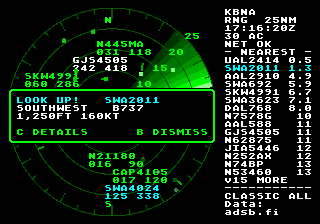
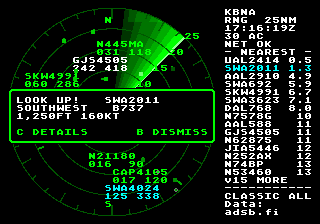
Boot: still bubble text and time to read each call
The letter wave was too much movement on the cart, so the bubble text
stands still. Every call now stays up 1.5 s after its last letter
before the boot moves on (and before setup opens on HOLD POSITION, via
the new splash_wait), so the boot runs a few seconds longer by choice.
Manual shots retimed for the longer emulator boot.

diff --git a/src/splash.c b/src/splash.c
@@ -1,7 +1,7 @@
 /* Boot splash (lode/ui/boot-splash.md). Window (rows 0-7): the wordmark and the status line.
  * Plane B: the scene, with the speech bubble's body written over it. Plane A: only the bubble
- * text, its 2-cell columns scrolled up and down in a wave. Sprites (low priority): the 787, so
- * it climbs out *behind* the wordmark. Everything moves in the V-Int; main only requests phases. */
+ * text. Sprites (low priority): the 787, so it climbs out *behind* the wordmark. Everything
+ * moves in the V-Int; main only requests phases. */
 #include "splash.h"
 #include "airports.h"
 #include "resources.h"
@@ -26,7 +26,7 @@
 #define HOLD_X      (103 << 8)  /* nose just short of the hold bars at x = 200 */
 #define GROUND_Y    (161 << 8)  /* wheels on the runway centre line */
 #define DWELL       90          /* frames a call stays up before the next phase */
-#define LINGER      40          /* ...and at least this long after its last letter */
+#define LINGER      90          /* ...and at least this long after its last letter, to read it */
 #define TYPE_RATE   1           /* frames per typed character */
 
 enum { PAL_CALL = PAL1, PAL_RED = PAL2, PAL_BUB = PAL3, PAL_DIM = PAL3 };
@@ -51,8 +51,6 @@ static u16 clr_x, clr_y, clr_w, clr_h;          /* body + tail: what to give bac
 static char status[STATUS_W + 1];
 static volatile u16 status_dirty;
 
-/* letter wave: px of vertical scroll per 2-cell column, a travelling sine */
-static const s16 wave[16] = { 0, 1, 1, 2, 2, 2, 1, 1, 0, -1, -1, -2, -2, -2, -1, -1 };
 
 static s32 px, py, vx, vy;              /* 8.8 */
 static u16 frame_no;
@@ -267,8 +265,8 @@ static void move(void)
     case SP_READBACK:                           /* taxi on to the hold line and wait there */
         vx = px < HOLD_X ? 128 : 0;
         if (px > HOLD_X) px = HOLD_X;
-        if (phase == SP_TAKEOFF && call_done(0, 50)) switch_phase(SP_READBACK, NULL);
-        else if (phase == SP_READBACK && call_done(0, 45) && px >= HOLD_X) switch_phase(SP_ROLL, NULL);
+        if (phase == SP_TAKEOFF && call_done(0, LINGER)) switch_phase(SP_READBACK, NULL);
+        else if (phase == SP_READBACK && call_done(0, LINGER) && px >= HOLD_X) switch_phase(SP_ROLL, NULL);
         break;
     default:                                    /* takeoff roll and climb */
         if (px < (150 << 8)) {
@@ -285,7 +283,7 @@ static void move(void)
     s16 x = px >> 8;
     frame_no = x < 135 || phase < SP_ROLL ? 0 : x < 150 ? 1 : x < 170 ? 2 : 3;
     if (phase == SP_ROLL && (py >> 8) < 40) switch_phase(SP_CONTACT, NULL);
-    if (phase == SP_CONTACT && (x >= 330 || (py >> 8) < -48) && typed >= typed_end) phase = SP_GONE;
+    if (phase == SP_CONTACT && (x >= 330 || (py >> 8) < -48) && call_done(0, LINGER)) phase = SP_GONE;
 }
 
 static void build_sprites(void)
@@ -342,13 +340,6 @@ static void splash_vint(void)
     PAL_setColors(0, pal_now, 64, CPU);
     VDP_setAutoInc(2);
 
-    /* letter wave: plane A's 2-cell columns bob; plane B stays put */
-    *(vu32 *)VDP_CTRL_PORT = VDP_WRITE_VSRAM_ADDR(0);
-    for (u16 c = 0; c < 20; c++) {
-        *(vu16 *)VDP_DATA_PORT = wave[(c * 3 + (ticks >> 2)) & 15];
-        *(vu16 *)VDP_DATA_PORT = 0;
-    }
-
     /* typewriter: redraw the bubble text from (lines, typed), so it's pure state */
     if (typed < typed_end && !(phase_frames % TYPE_RATE)) {
         u16 n = typed / BUB_TW;
@@ -396,7 +387,6 @@ void splash_start(enum splash_phase at)
     VDP_setPlaneSize(64, 32, TRUE);
     VDP_setWindowHPos(FALSE, 0);
     VDP_setWindowVPos(FALSE, WIN_ROWS);
-    VDP_setScrollingMode(HSCROLL_PLANE, VSCROLL_COLUMN);
     VDP_setHorizontalScroll(BG_A, 0);
     VDP_setHorizontalScroll(BG_B, 0);
     VDP_setVerticalScroll(BG_A, 0);
@@ -436,9 +426,14 @@ void splash_start(enum splash_phase at)
     SYS_setVIntCallback(splash_vint);
 }
 
-void splash_phase(enum splash_phase p, const char *detail)
+void splash_wait(void)
 {
     while (!skip && !call_done(DWELL, LINGER)) {}
+}
+
+void splash_phase(enum splash_phase p, const char *detail)
+{
+    splash_wait();
     update_city();
     set_phase(p, detail);
 }
@@ -471,9 +466,6 @@ void splash_stop(void)
     VDP_clearPlane(BG_B, TRUE);
     VDP_clearPlane(WINDOW, TRUE);
     VDP_setWindowVPos(FALSE, 0);
-    VDP_setScrollingMode(HSCROLL_PLANE, VSCROLL_PLANE);  /* nothing else sets it back; the radar would wobble */
-    VDP_setVerticalScroll(BG_A, 0);
-    VDP_setVerticalScroll(BG_B, 0);
     VDP_resetSprites();
     VDP_updateSprites(1, CPU);
 }

diff --git a/src/main.c b/src/main.c
@@ -25,12 +25,6 @@
 #define STALE_SECS      15      /* panel shows STALE after this without data */
 
 #ifndef FAKE_FEED
-static void wait_frames(u16 n)
-{
-    u32 t = vtimer;
-    while (vtimer - t < n) {}
-}
-
 /* One frame from the relay before takeoff, so a relay from another release (lock-step: relay vX
  * serves cart vX) is reported at boot rather than as an error on the radar. Typed URLs too. */
 static enum feed_err relay_probe(void)
@@ -79,7 +73,7 @@ static void boot_network(void)
             if (fe == FEED_ERR_VERSION) sprintf(buf, "RELAY MISMATCH: RUN RELAY %s", app_version);
             splash_phase(SP_HOLD_POS, !joined ? "WI-FI FAILED: OPENING SETUP" :
                          fe == FEED_ERR_VERSION ? buf : "NO RELAY FOUND: OPENING SETUP");
-            wait_frames(120);
+            splash_wait();
         }
         splash_stop();
         setup_run(TRUE);

diff --git a/src/splash.h b/src/splash.h
@@ -20,6 +20,8 @@ enum splash_phase {
 void splash_start(enum splash_phase at);
 /* Move to the next phase once the current call has been on screen long enough (START skips). */
 void splash_phase(enum splash_phase p, const char *detail);
+/* Wait until the current call has been on screen long enough to read (START skips). */
+void splash_wait(void);
 /* Dim status line under the wordmark (firmware, IP). */
 void splash_status(const char *s);
 /* After SP_TAKEOFF: wait for the departure and "radar contact", fade out, stop. */

diff --git a/lode/ui/boot-splash.md b/lode/ui/boot-splash.md
@@ -3,7 +3,7 @@
 The boot is a dawn airport scene. Our **MEGA WIFI RADAR** wordmark sits across the top
 with a Sega-style shine, a control tower stands on the left, and a **787** taxis right, holds short,
 and takes off behind the logo. Each radio call is a real boot step, spoken in a **ToeJam & Earl-style
-speech bubble** that points at whoever is talking (tower cab or 787), with letters bobbing in a wave.
+speech bubble** that points at whoever is talking (tower cab or 787).
 No Sega marks are used (see [../practices.md](../practices.md)).
 
 ```mermaid
@@ -18,8 +18,8 @@ stateDiagram-v2
   RELAY --> HOLD_POS: none found
   HOLD --> HOLD_POS: join failed
   HOLD_POS --> HOLD: setup_run returns (splash restarts at HOLD)
-  TAKEOFF --> READBACK: clearance typed, 50 frames later (787 at the hold line)
-  READBACK --> ROLL: readback typed, 45 frames later (bubble closes)
+  TAKEOFF --> READBACK: clearance typed, LINGER later (787 at the hold line)
+  READBACK --> ROLL: readback typed, LINGER later (bubble closes)
   ROLL --> CONTACT: plane top y < 40
   CONTACT --> [*]: plane gone, fade, radar_up
 ```
@@ -35,14 +35,15 @@ stateDiagram-v2
   replaces it. The bubble's position says who speaks, so all call text is navy; failure details stay red.
   The pilot reads the takeoff clearance back **at the hold line**, before rolling (realistic, and the tail
   still points at the plane). The bubble closes when the roll starts; RADAR CONTACT comes from the tower.
-- **Letter wave:** plane A uses 2-cell column vertical scroll; a travelling sine of ±2 px bobs the text
-  two characters at a time. The bubble body sits still on plane B.
+- **Still text, time to read (2026-11-01, after trying it on the cart):** a ±2 px letter wave (column vscroll)
+  was too much movement and was removed. Every call stays up `LINGER` (90 frames, 1.5 s) after its last
+  letter, and main waits for that before the next boot step: the boot takes a few seconds longer, by choice.
 - Status line (window row 7, dim, under the wordmark): version + firmware + settings, then `IP a.b.c.d  RELAY host:port`.
 
 ## Scene and layers
 ```mermaid
 flowchart TB
-  W["rows 0-7: WINDOW plane<br/>wordmark rows 1-6, status row 7 (no wobble)"]
+  W["rows 0-7: WINDOW plane<br/>wordmark rows 1-6, status row 7"]
   S["rows 8-21: sky, bubble zone<br/>tower bubble rows ..14 (left tail at the cab)<br/>787 bubble rows ..20 (down tail at the nose)"]
   G["y 174-224: hills, runway 194-214, grass"]
   W --> S --> G
@@ -50,13 +51,13 @@ flowchart TB
 | Layer | Content | Palette |
 |---|---|---|
 | Window (rows 0–7, high priority) | wordmark rows 1–6; status row 7 | PAL1 logo, PAL3 text |
-| Plane A (high priority) | bubble text only; column vscroll wave | PAL1 navy, PAL2 red |
+| Plane A (high priority) | bubble text only | PAL1 navy, PAL2 red |
 | Plane B | scene (sky dither, hills, runway, tower); bubble body tiles (high priority) written over it, restored from `splash_bg_map` on close | PAL0 scene, PAL3 bubble |
 | Sprites (low priority) | 787: 96×48 px = 3×2 sprites of 4×3 tiles; 4 frames (0°, 6°, 12° gear down, 18° gear up) | PAL2 |
 
 Low-priority sprites sit under high-priority window and plane B tiles, so the climbing 787 passes **behind**
-the wordmark and behind the RADAR CONTACT bubble. The window plane is what keeps the wordmark and status
-still: column vscroll applies to every plane A column top to bottom, the window never scrolls.
+the wordmark and behind the RADAR CONTACT bubble. Splitting text (plane A) from the bubble body (plane B)
+lets the text be redrawn every frame without touching the scene.
 
 The shine is palette cycling: the generator re-indexes the wordmark body into **12 diagonal band slots spread
 once across its width** (PAL1 3..14, `(x - y/2 + 24) * 12 / 312`). A white highlight with light-blue
@@ -65,7 +66,7 @@ neighbours walks through them every ~3 s. Repeating slots (every 48 px) would re
 ## Bubbles
 Text wraps at word boundaries to `BUB_TW` = 26 columns, up to `BUB_LINES` = 4 lines; a red detail starts on a
 new line. The bubble is `longest line + 2` cells wide and `lines + 2` rows high; border tiles draw their line
-in the outer pixels so the ±2 px bob stays inside the white.
+in the outer pixels, leaving white padding around the text.
 
 | Speaker | Anchor | Tail |
 |---|---|---|
@@ -76,12 +77,12 @@ in the outer pixels so the ±2 px bob stays inside the white.
 left gap + tip and bottom gap + tip. Tiles at fixed coordinates in the page, see `tools/splashgen`.
 
 ```c
-/* V-Int, every frame: 20 columns x (plane A, plane B) words into VSRAM */
-*(vu32 *)VDP_CTRL_PORT = VDP_WRITE_VSRAM_ADDR(0);
-for (u16 c = 0; c < 20; c++) { *(vu16 *)VDP_DATA_PORT = wave[(c * 3 + (ticks >> 2)) & 15]; *(vu16 *)VDP_DATA_PORT = 0; }
+/* a call: bubble_close() gives the old cells back from splash_bg_map, bubble_open() draws the new one */
+u16 who = script(p, detail);      /* fills lines[], returns TOWER / PLANE / NOBODY */
+bubble_close();
+if (who != NOBODY) bubble_open(who);
 ```
-`splash_stop` puts the VDP back: `VSCROLL_PLANE`, VSRAM zero, window off and cleared. Nothing else in the ROM
-sets the scroll mode except cockpit mode, so a leftover column mode would wobble the radar.
+`splash_stop` turns the window off and clears it, so the radar and setup screens start from a clean VDP.
 
 ## Art pipeline
 `res/splash/src/art.typ` (Typst vectors, same fonts as print) → `make splash-art` renders PNGs at 72 ppi
@@ -95,6 +96,7 @@ Sprite tiles are column-major per 4×3 sprite (VDP order).
 ```c
 splash_start(SP_GATE);                 /* scene up, V-Int animating; main must not touch the VDP */
 splash_phase(SP_TAXI, NULL);           /* waits: call typed, >= DWELL frames up, >= LINGER since typed (START skips) */
+splash_wait();                         /* the same wait without a new call: before setup opens on HOLD_POS */
 splash_status("v0.2.0  FW 1.5 ...");   /* dim row 7 */
 splash_phase(SP_HOLD_POS, "WI-FI FAILED: OPENING SETUP");  /* then splash_stop(); setup_run(); splash_start(SP_HOLD) */
 splash_phase(SP_TAKEOFF, NULL); splash_finish();           /* readback, departure, RADAR CONTACT, fade, stop */
@@ -120,9 +122,9 @@ wordmark at the top, a 45° path leaves through the right edge; a realistic 15°
   or add a debug row (`phase typed len len skip`) before chasing a phantom bug.
 - Each palette's index 15 is the SGDK font colour, so text colours live there: navy call text PAL1,
   failure red PAL2, status grey PAL3.
-- Column vscroll moves whole plane A columns. Anything that must not wobble lives in the window or plane B.
 - A call's linger counts from its **last letter** (`typed_at`), not from the phase start: a long call types for
   longer than a short minimum, so "frames since phase start" closed it the moment it finished typing.
-  `call_done(min, linger)` checks both; main's waits use `DWELL` 90 and `LINGER` 40.
+  `call_done(min, linger)` checks both; every wait uses `LINGER` (90), main's also `DWELL` (90).
+- Moving text is hard to read on a CRT: the letter wave looked lively in the emulator but was too much on the cart.
 
 Related: [radar-renderer.md](radar-renderer.md) (same V-Int ownership rules), [config-screen.md](config-screen.md).

diff --git a/lode/lode-map.md b/lode/lode-map.md
@@ -22,7 +22,7 @@
   - [screen-layout.md](ui/screen-layout.md) - regions, layers, scaling, behaviour, controls, themes
   - [sweep.md](ui/sweep.md) - thin-line sweep with palette afterglow: budget, mechanism, generated data
   - [radar-renderer.md](ui/radar-renderer.md) - V-Int renderer, shared state, measured costs, perf lessons
-  - [boot-splash.md](ui/boot-splash.md) - 787 departure splash driven by boot steps: phases, speech bubbles + letter wave, layers, art pipeline, motion
+  - [boot-splash.md](ui/boot-splash.md) - 787 departure splash driven by boot steps: phases, speech bubbles + reading time, layers, art pipeline, motion
   - [traffic-list.md](ui/traffic-list.md) - side-panel traffic list: sort orders, selection, rebuild per sweep
   - [detail-popup.md](ui/detail-popup.md) - tap-C detail pop-up: rows, /v1/detail fetches, window plane + opaque font
   - [cockpit.md](ui/cockpit.md) - cockpit mode: /v1/terrain + /v1/track, Voxel Space into VRAM, overlay RAM, camera, HUD

diff --git a/lode/terminology.md b/lode/terminology.md
@@ -26,7 +26,7 @@
 - nm - nautical mile; frames use 1/32 nm.
 - Home point - the scope centre (airport ICAO + lat/lon in 1e-4 deg + range nm). Dev default KBNA.
 - KBNA - Nashville International, the dev home point (36.1245, -86.6782, 599 ft).
-- Speech bubble - a boot radio call in a ToeJam & Earl-style bubble whose tail points at the speaker (tower cab or 787); body on plane B, text on plane A bobbing in the letter wave (column vscroll).
+- Speech bubble - a boot radio call in a ToeJam & Earl-style bubble whose tail points at the speaker (tower cab or 787); body on plane B, text on plane A, up 1.5 s after its last letter.
 - Config screen - the setup screen (`setup.c`): theme, range, tags, airport, Wi-Fi, relay; opens on START or when boot can't connect.
 - Squawk 7500/7600/7700 - hijack / radio failure / emergency transponder codes.
 - H40 - the 320×224 VDP display mode.

diff --git a/lode/print/print-assets.md b/lode/print/print-assets.md
@@ -51,7 +51,7 @@ flowchart LR
 - Manual page count is padded to a multiple of 4 with Notes pages, so the booklet imposition always works.
 - Screenshots come from the emulator build (`make print-shots`, `print/shots.txt`: name, snapshot time,
   presses) and are committed, because CI has no MAME. Typst draws them with `scaling: "pixelated"`.
-  The emulator boot ends (radar up) at ~12 s, so post-boot presses start at 13 s. A change to the boot's
+  The emulator boot ends (radar up) at ~17 s, so post-boot presses start at 18 s. A change to the boot's
   length shifts every press: a Start pressed during the boot skips it instead of opening setup.
 - A user-visible feature updates its `print/manual/*.typ` section, the CHANGELOG and, if the screen
   changed, the shots, all in the same commit.

diff --git a/CHANGELOG.md b/CHANGELOG.md
@@ -2,8 +2,8 @@
 
 IMPROVEMENTS:
 
-  * **boot:** the radio calls pop up in speech bubbles from whoever is talking, the tower or the 787, with
-    letters that bob in a wave. The wordmark moves to the top and the airport fills the rest of the screen; the
+  * **boot:** the radio calls pop up in speech bubbles from whoever is talking, the tower or the 787, and
+    each one stays up long enough to read. The wordmark moves to the top and the airport fills the rest of the screen; the
     pilot reads the takeoff clearance back at the hold line, then rolls and climbs out behind the logo.
   * **print:** the manual's start-up page shows the new boot screen.
 
